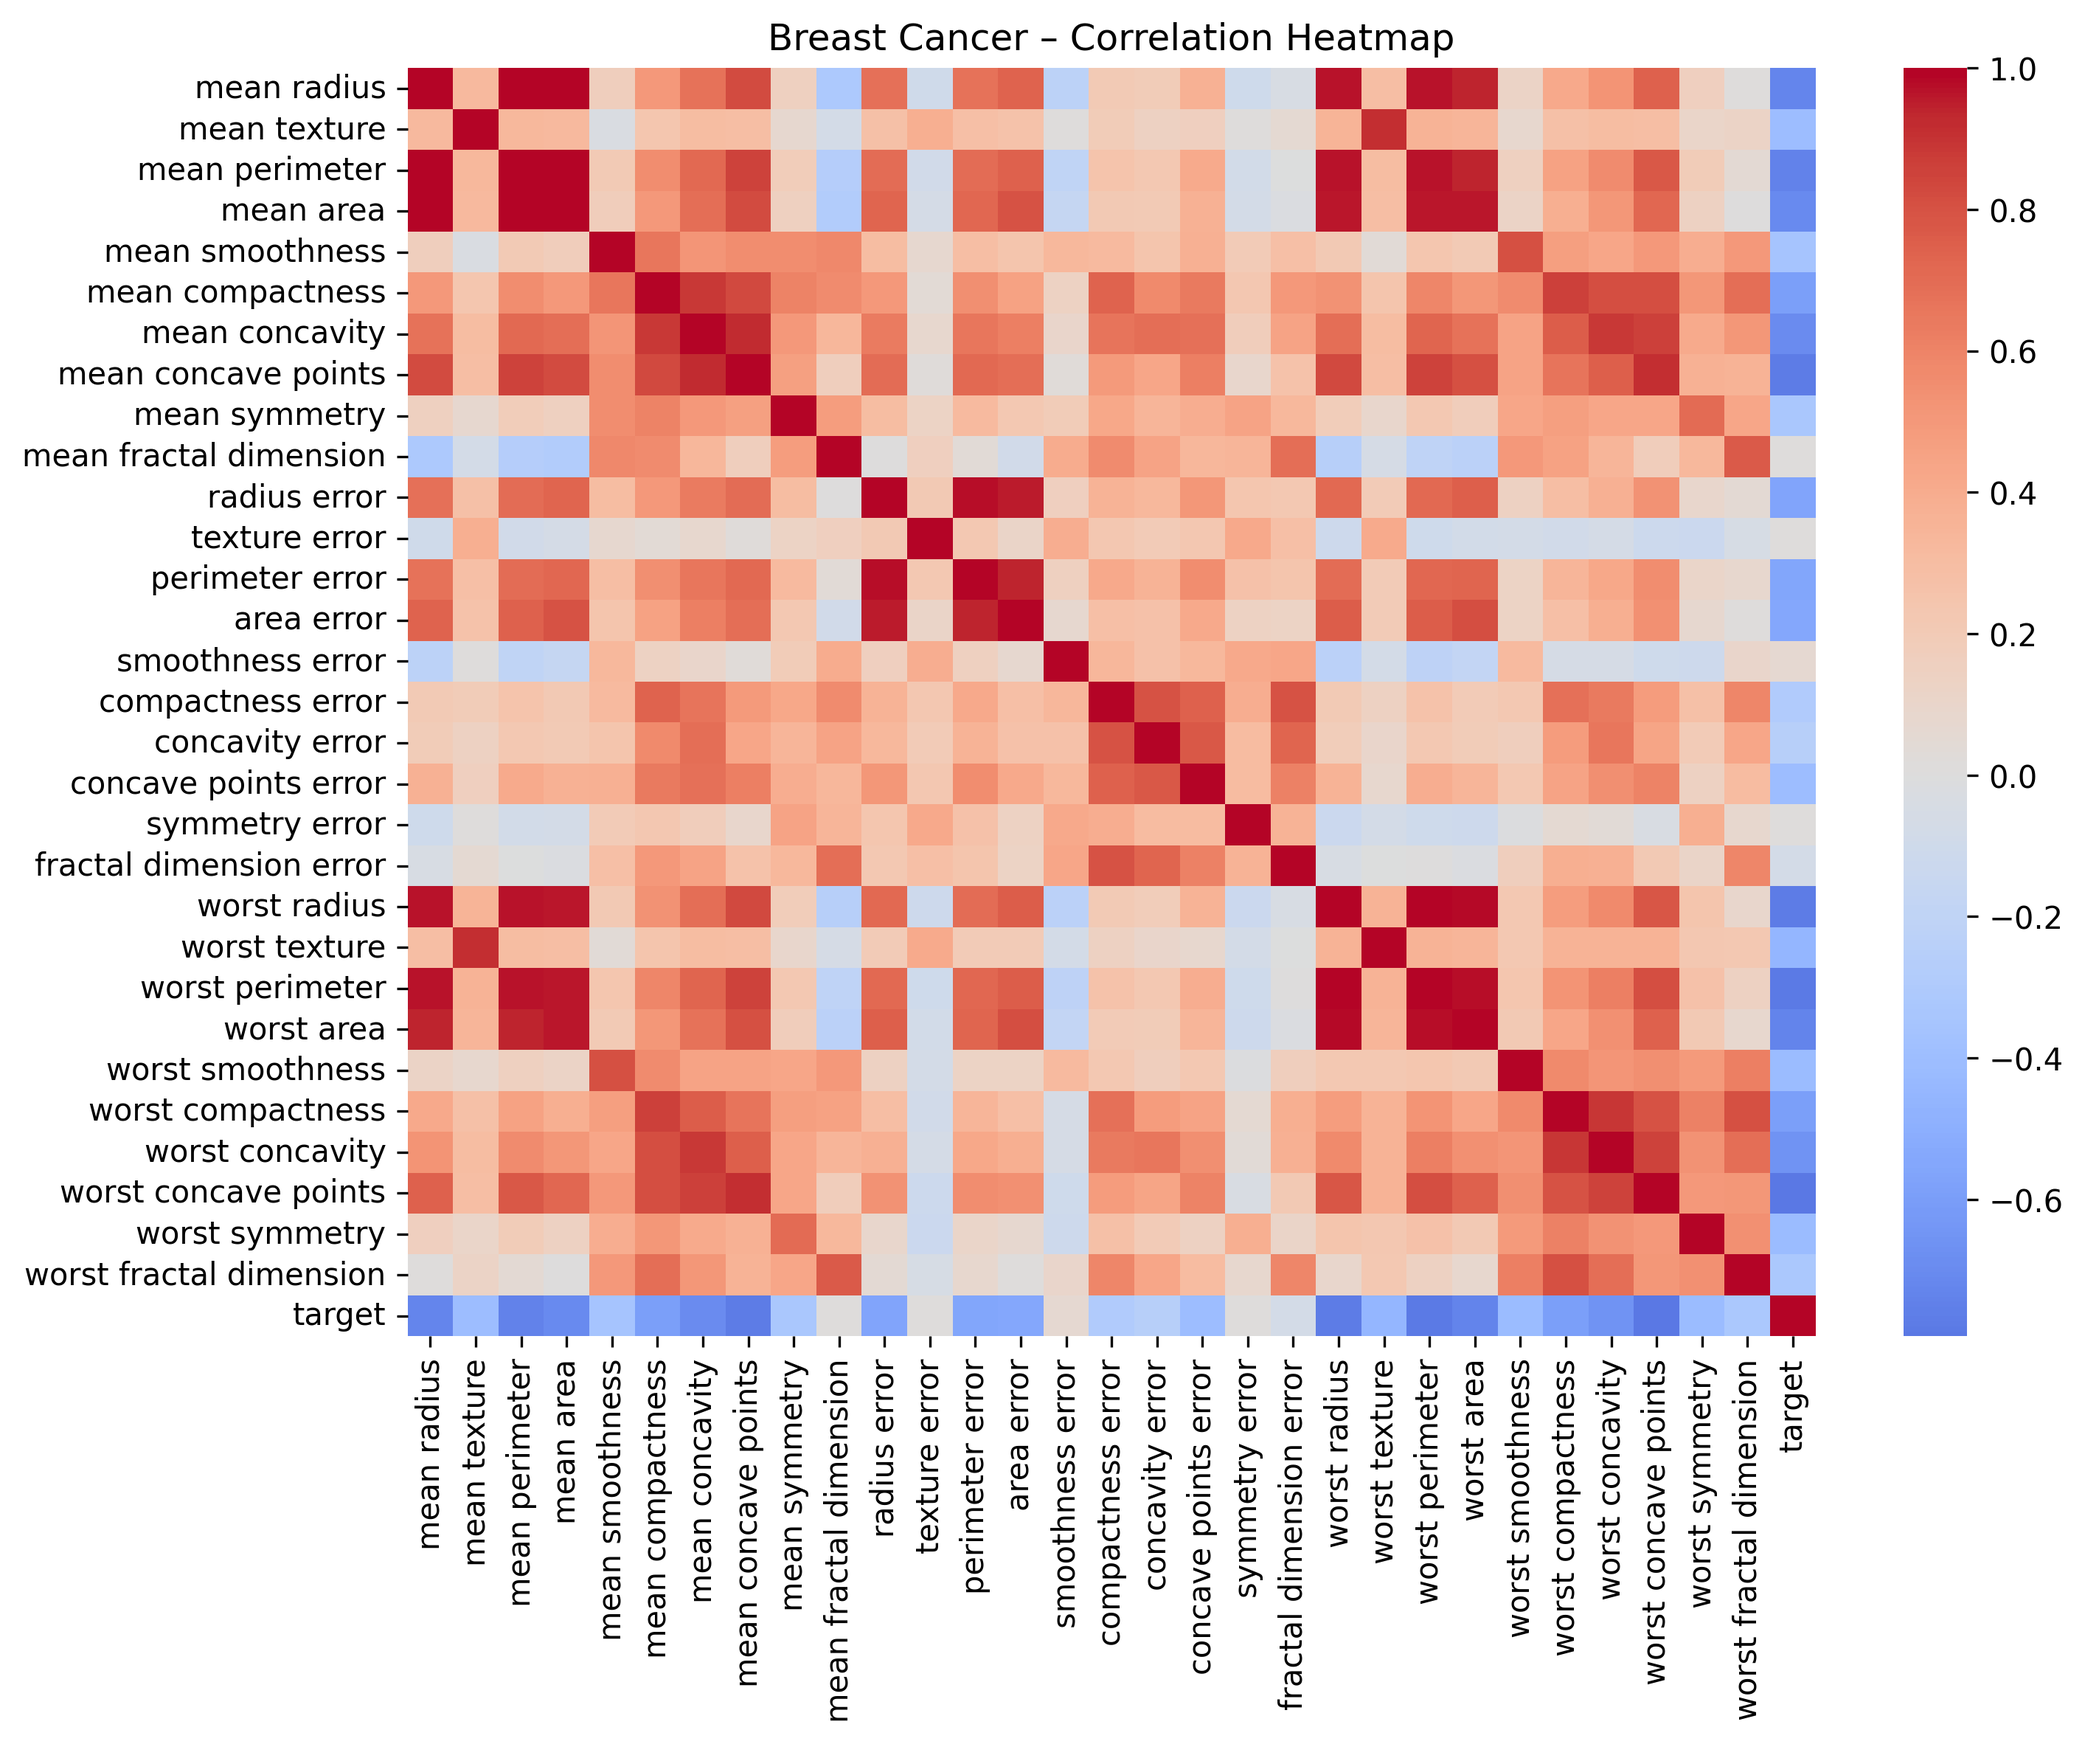
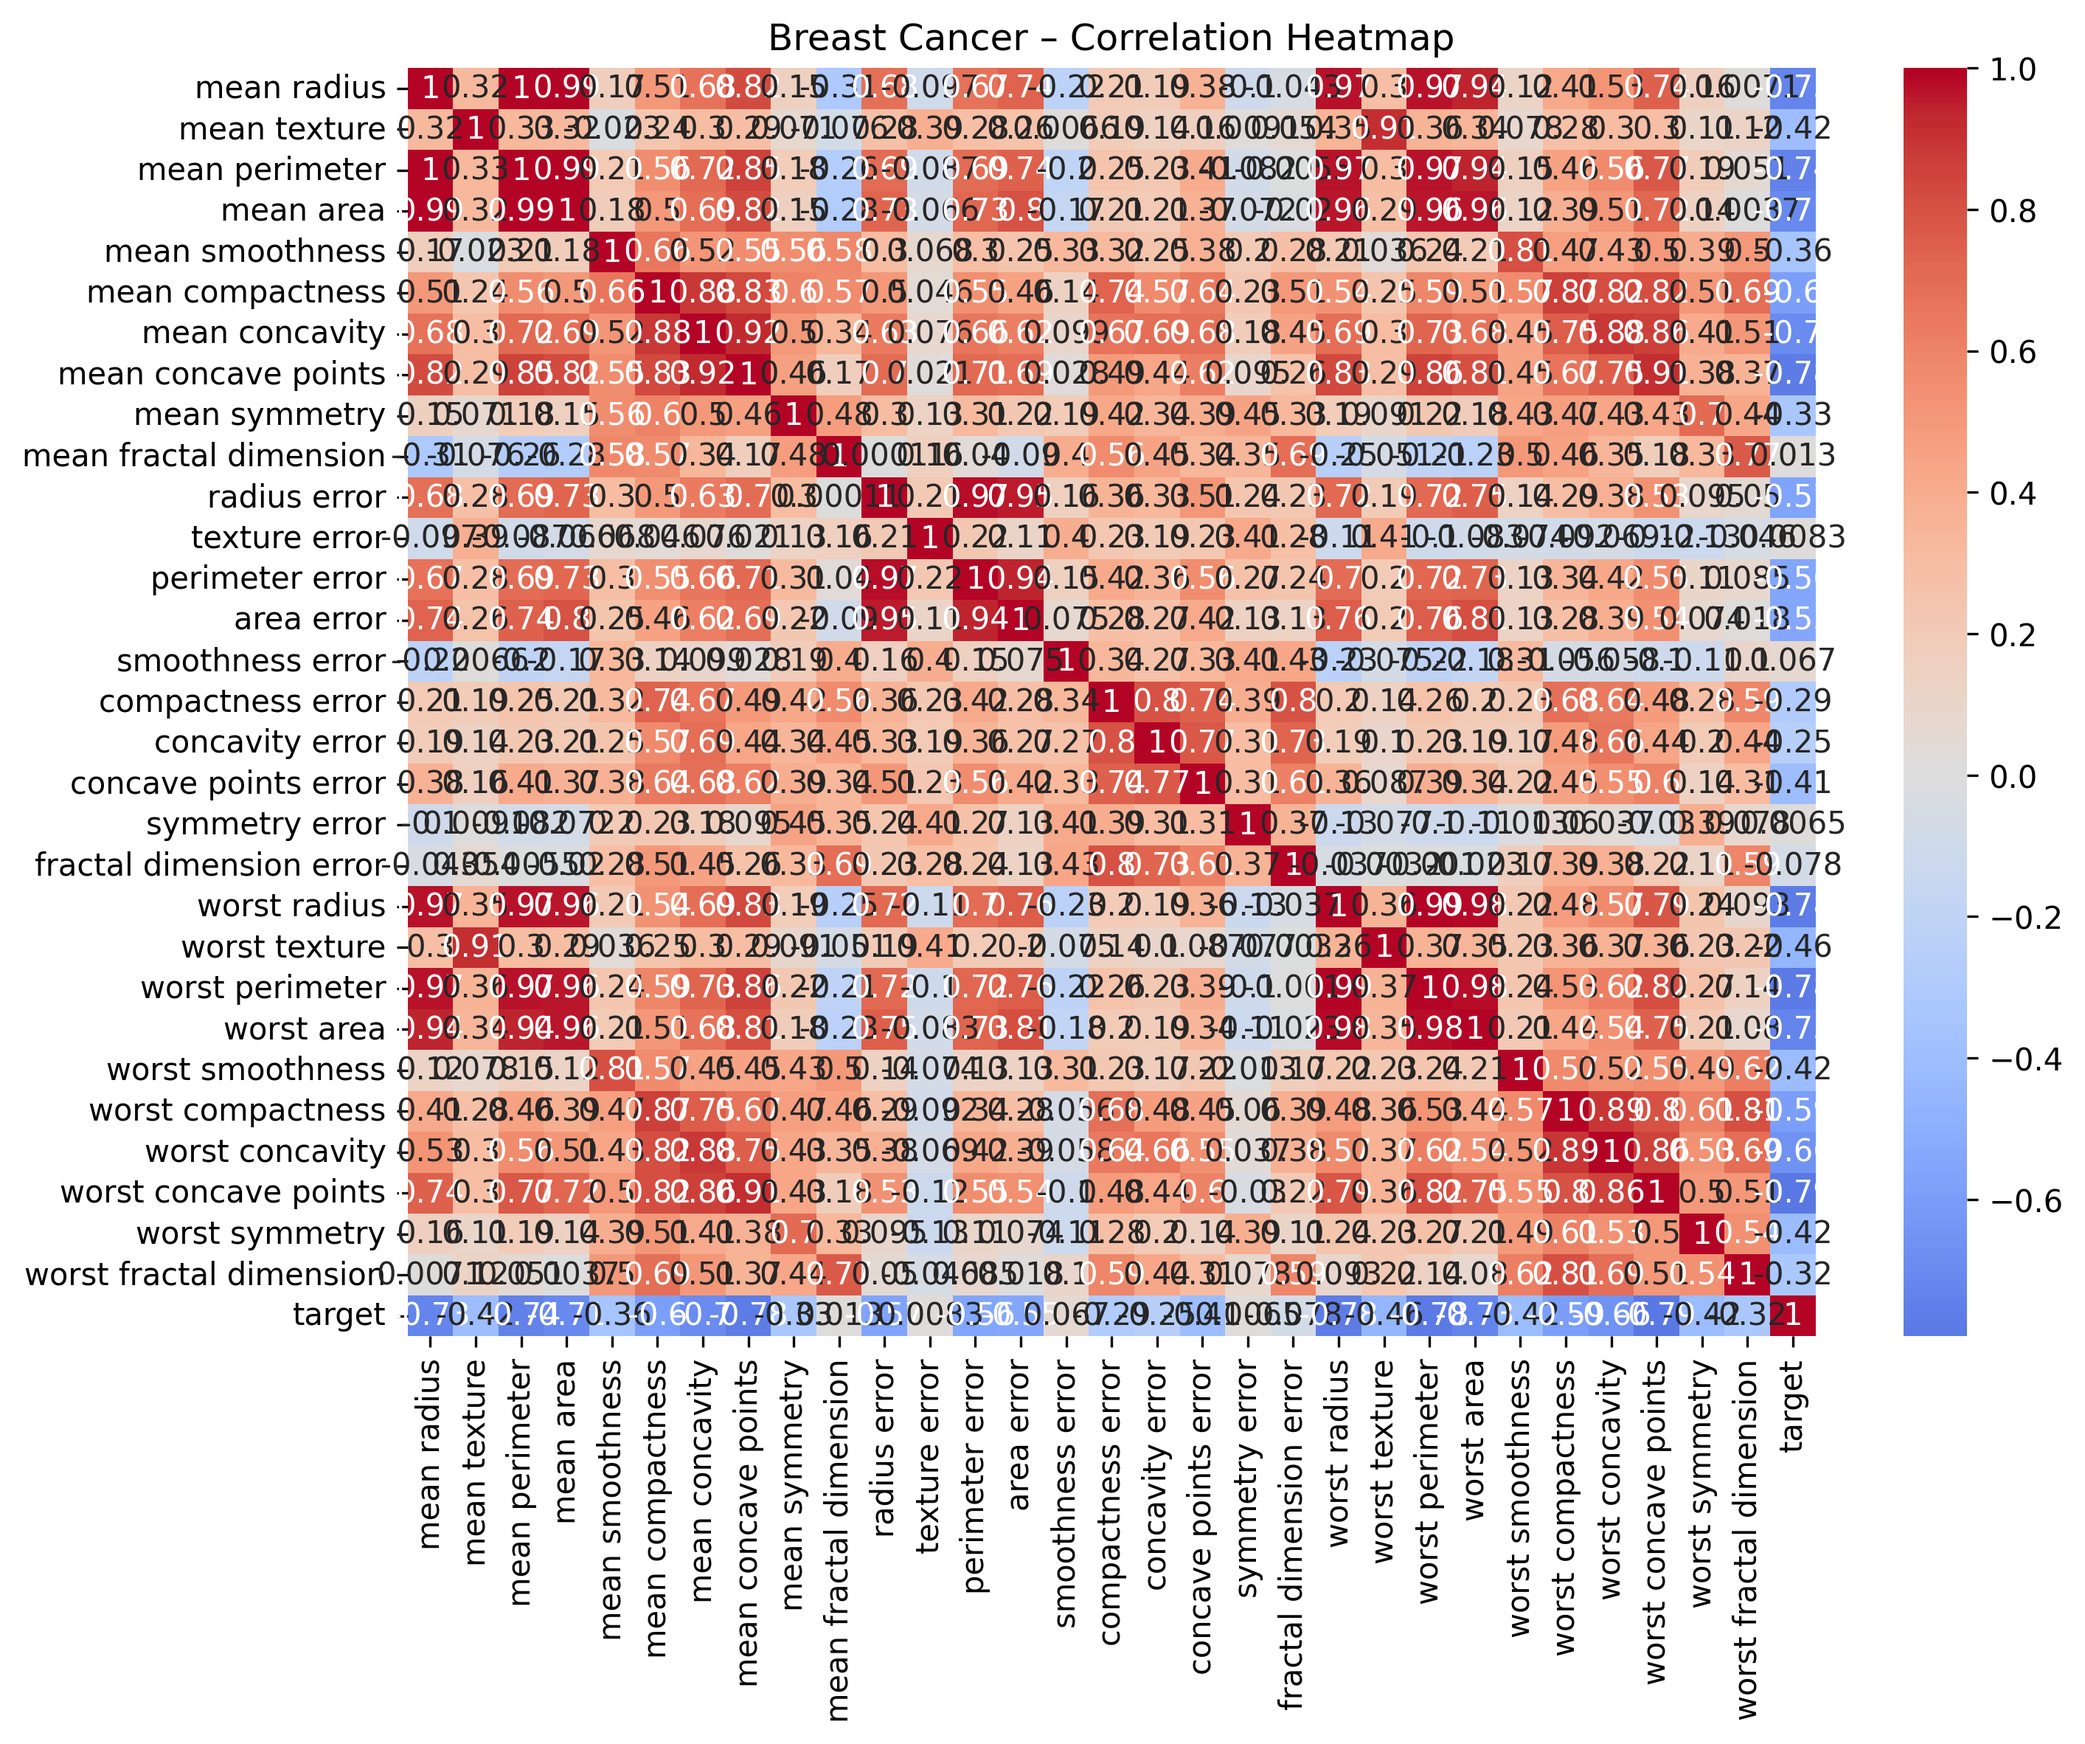
Cleaned the code and updated the heatmap

Changed region(s): [[0.1868, 0.0309, 0.9027, 0.772]]

diff --git a/RandomForestClassifier/Breast_Cancer_RFC/Breast_Cancer_RFC.py b/RandomForestClassifier/Breast_Cancer_RFC/Breast_Cancer_RFC.py
@@ -19,17 +19,7 @@ from sklearn.metrics import (
     auc,
 )
 
-
-# -------------------------------------------------------------------
-# Paths & data loading
-# -------------------------------------------------------------------
-
 def get_project_paths(results_dir_name: str = "results"):
-    """
-    Helper to get absolute paths based on the location of this script.
-    Dataset is loaded from sklearn (no CSV needed), but we still
-    create a results directory next to this script.
-    """
     base_dir = os.path.dirname(os.path.abspath(__file__))
     results_dir = os.path.join(base_dir, results_dir_name)
     os.makedirs(results_dir, exist_ok=True)
@@ -37,31 +27,11 @@ def get_project_paths(results_dir_name: str = "results"):
 
 
 def load_data(as_frame: bool = True):
-    """
-    Load the Breast Cancer dataset as a pandas DataFrame.
-    Returns both the DataFrame and the original sklearn Bunch object.
-
-    DataFrame includes all 30 features and 'target' column:
-      - 0 = malignant
-      - 1 = benign
-    """
     data = load_breast_cancer(as_frame=as_frame)
     df = data.frame
     return df, data
 
-
-# -------------------------------------------------------------------
-# Exploratory analysis & preprocessing
-# -------------------------------------------------------------------
-
 def explore_data(df: pd.DataFrame, results_dir: str) -> None:
-    """
-    Basic exploratory visualization.
-
-    Saves:
-      - pairplot of a subset of features + target
-      - correlation heatmap of all numeric columns
-    """
     # Subset for pairplot (to keep it readable)
     cols_for_pairplot = [
         "mean radius",
@@ -84,7 +54,7 @@ def explore_data(df: pd.DataFrame, results_dir: str) -> None:
     # Correlation heatmap (all numeric cols, including target)
     corr = df.corr()
     plt.figure(figsize=(10, 8))
-    sns.heatmap(corr, cmap="coolwarm", center=0)
+    sns.heatmap(corr, cmap="coolwarm", center=0, annot=True)
     plt.title("Breast Cancer – Correlation Heatmap")
     plt.tight_layout()
     heatmap_path = os.path.join(results_dir, "breast_cancer_rf_corr_heatmap.png")
@@ -116,9 +86,6 @@ def train_test_split_data(
     test_size: float = 0.2,
     random_state: int = 42,
 ):
-    """
-    Split features and target into train and test sets with stratification.
-    """
     return train_test_split(
         X,
         y,
@@ -128,11 +95,6 @@ def train_test_split_data(
         stratify=y,
     )
 
-
-# -------------------------------------------------------------------
-# Modeling & evaluation
-# -------------------------------------------------------------------
-
 def train_random_forest(
     X_train,
     y_train,
@@ -140,9 +102,6 @@ def train_random_forest(
     max_depth=None,
     random_state: int = 42,
 ):
-    """
-    Fit a Random Forest classifier.
-    """
     rf = RandomForestClassifier(
         n_estimators=n_estimators,
         max_depth=max_depth,
@@ -161,20 +120,13 @@ def evaluate_classifier(
     report_filename: str = "breast_cancer_random_forest_report.txt",
     cm_filename: str = "breast_cancer_random_forest_confusion_matrix.png",
 ):
-    """
-    Evaluate a classification model and save metrics + confusion matrix.
 
-    Saves:
-      - Text report (accuracy + classification report + confusion matrix)
-      - Confusion matrix heatmap as PNG
-    """
     y_pred = model.predict(X_test)
 
     acc = accuracy_score(y_test, y_pred)
     cm = confusion_matrix(y_test, y_pred)
     cr = classification_report(y_test, y_pred)
 
-    # Print to console
     print("\n=== Breast Cancer – Random Forest Evaluation ===")
     print(f"Accuracy: {acc:.4f}")
     print("Confusion matrix:")
@@ -182,7 +134,6 @@ def evaluate_classifier(
     print("\nClassification report:")
     print(cr)
 
-    # Save text report
     report_path = os.path.join(results_dir, report_filename)
     with open(report_path, "w", encoding="utf-8") as f:
         f.write("Breast Cancer – Random Forest Evaluation\n\n")
@@ -220,9 +171,7 @@ def plot_roc_curve(
     results_dir: str,
     filename: str = "breast_cancer_random_forest_roc_curve.png",
 ):
-    """
-    Plot ROC curve and save it as PNG. Also returns FPR, TPR, AUC.
-    """
+
     if not hasattr(model, "predict_proba"):
         raise RuntimeError("Model does not support predict_proba; cannot compute ROC curve.")
 
@@ -253,9 +202,7 @@ def plot_feature_importances(
     results_dir: str,
     filename: str = "breast_cancer_random_forest_feature_importances.png",
 ):
-    """
-    Plot feature importances as a horizontal bar chart and save to PNG.
-    """
+
     importances = model.feature_importances_
     series = pd.Series(importances, index=feature_names).sort_values()
 
@@ -283,9 +230,7 @@ def save_feature_importances_table(
     filename_csv: str = "breast_cancer_random_forest_feature_importances.csv",
     filename_txt: str = "breast_cancer_random_forest_feature_importances.txt",
 ):
-    """
-    Save feature importances to CSV and TXT files.
-    """
+
     importances = model.feature_importances_
     fi_df = pd.DataFrame(
         {"feature": feature_names, "importance": importances}
@@ -302,30 +247,17 @@ def save_feature_importances_table(
 
     print(f"[INFO] Feature importances saved to {csv_path} and {txt_path}")
 
-
-# -------------------------------------------------------------------
-# Main script
-# -------------------------------------------------------------------
-
 def main():
-    # Resolve paths
     _, results_dir = get_project_paths(results_dir_name="results")
 
-    # 1. Load data
     df, data_bunch = load_data(as_frame=True)
 
-    # 2. Exploratory analysis
     explore_data(df, results_dir=results_dir)
-
-    # 3. Prepare features and target
     X, y, feature_names = prepare_features(df)
-
-    # 4. Train/test split
     X_train, X_test, y_train, y_test = train_test_split_data(
         X, y, test_size=0.2, random_state=42
     )
 
-    # 5. Train Random Forest
     rf_model = train_random_forest(
         X_train,
         y_train,
@@ -333,7 +265,6 @@ def main():
         max_depth=None,
     )
 
-    # 6. Evaluate model
     y_pred, metrics = evaluate_classifier(
         rf_model,
         X_test,
@@ -343,7 +274,6 @@ def main():
         cm_filename="breast_cancer_random_forest_confusion_matrix.png",
     )
 
-    # 7. ROC curve
     plot_roc_curve(
         rf_model,
         X_test,
@@ -352,7 +282,6 @@ def main():
         filename="breast_cancer_random_forest_roc_curve.png",
     )
 
-    # 8. Feature importances (plots + tables)
     plot_feature_importances(
         rf_model,
         feature_names,
@@ -366,7 +295,6 @@ def main():
         filename_csv="breast_cancer_random_forest_feature_importances.csv",
         filename_txt="breast_cancer_random_forest_feature_importances.txt",
     )
-
 
 if __name__ == "__main__":
     main()
